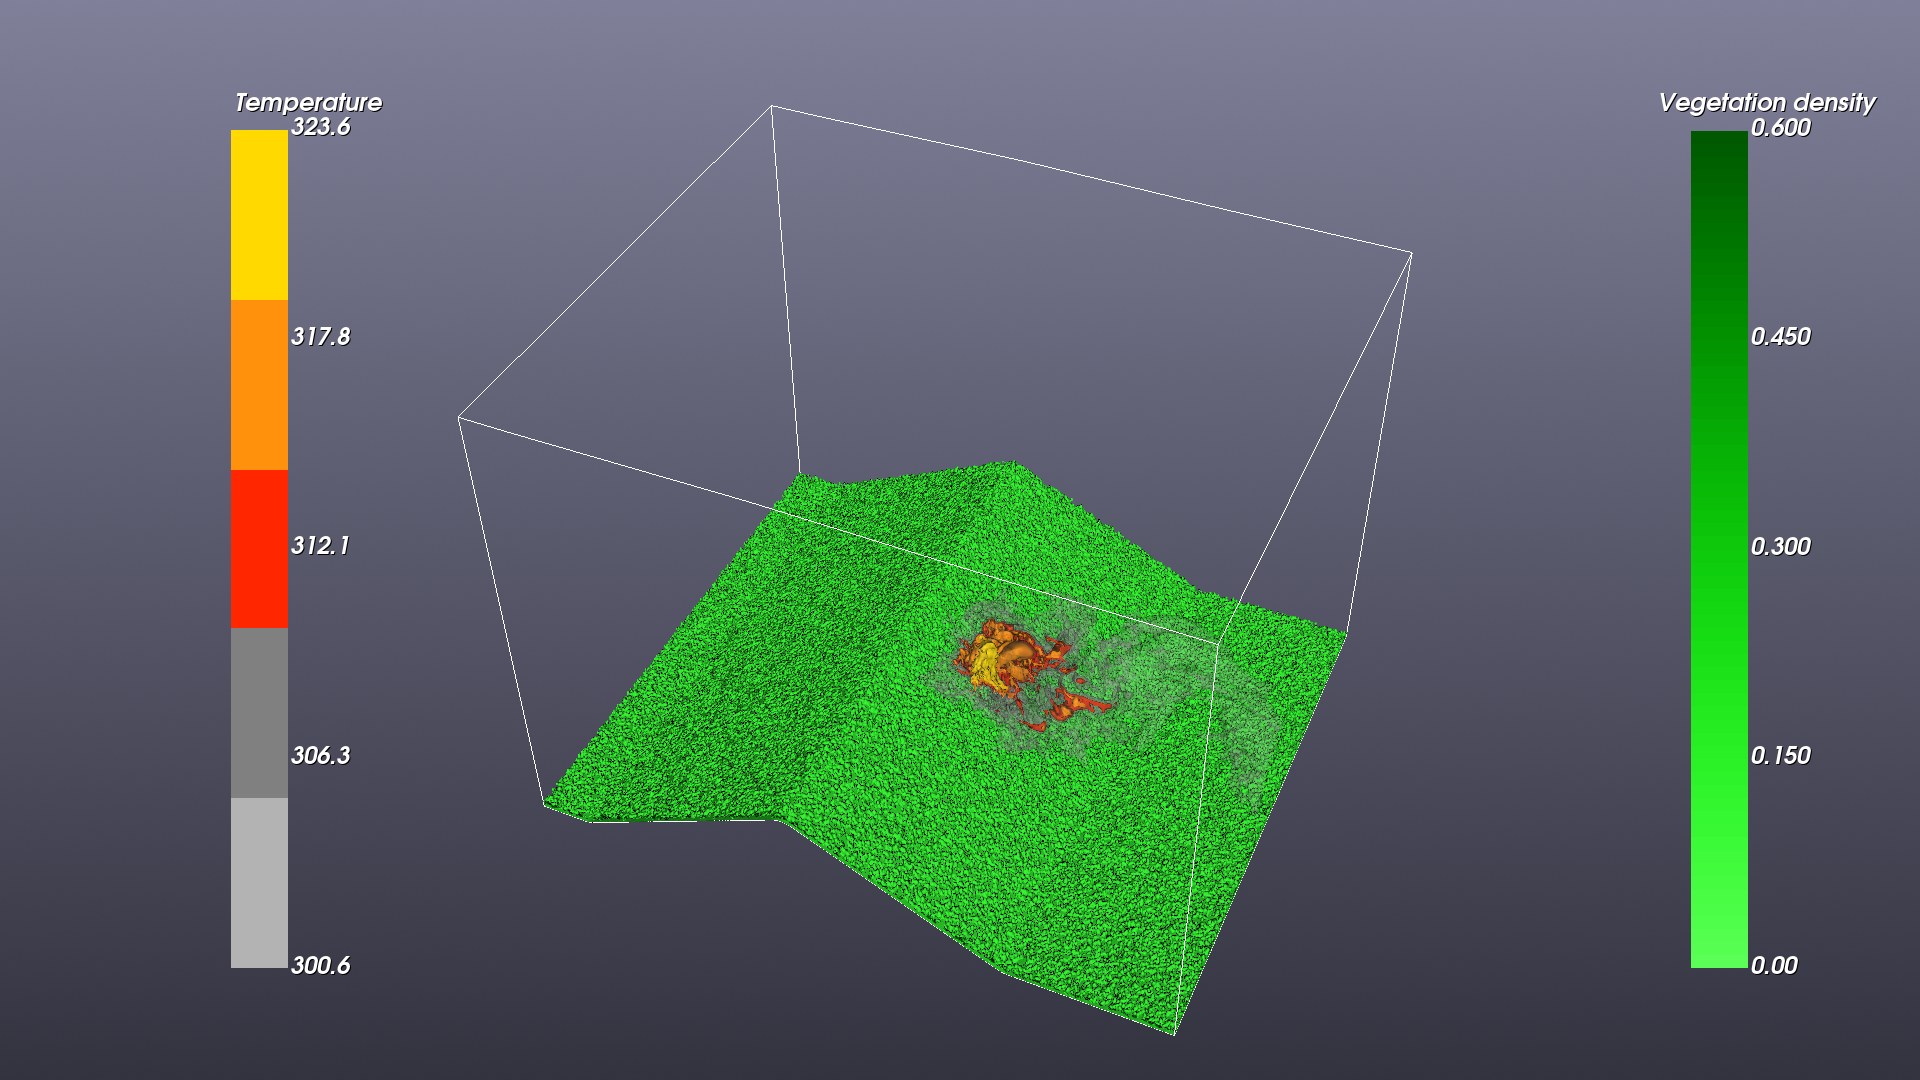
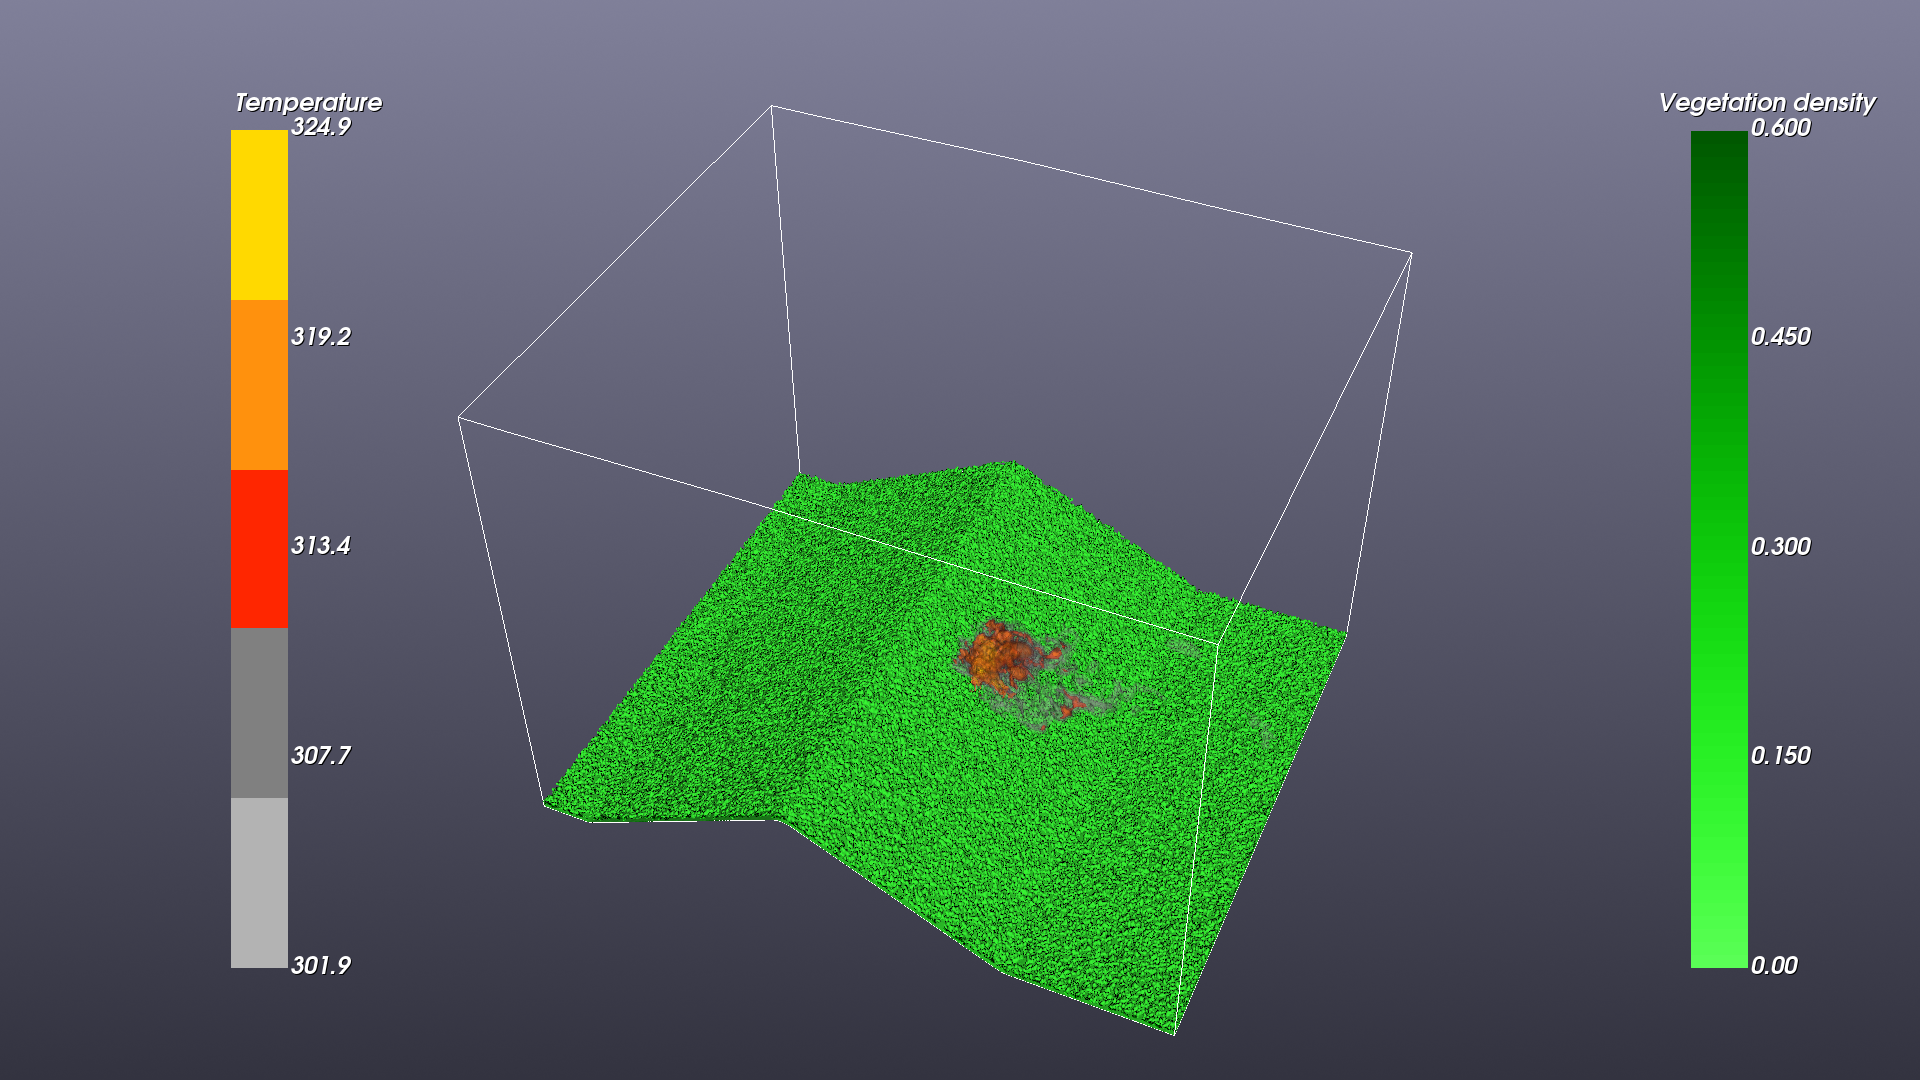
Correctly creates fire in all cases, but it is not as pretty

diff --git a/main.py b/main.py
@@ -11,6 +11,7 @@ File description:
 #!/usr/bin/env vtkpython
 import vtk
 
+from animation import create_frames
 from fire_smoke import (
     make_fire_smoke_actors,
     make_temperature_lut,
@@ -62,19 +63,19 @@ renderer.AddActor(ground_actor)
 # Interactive rendering
 setup_camera(renderer)
 render_window, interactor = make_window_and_interactor(renderer)
-render_window.Render()
-interactor.Initialize()
-interactor.Start()
+# render_window.Render()
+# interactor.Initialize()
+# interactor.Start()
 
 # Animation
-# filters = {
-#     "veg": vegetation_contour,
-#     "smoke_low": fire_contours[0],
-#     "smoke_mid": fire_contours[1],
-#     "fire_hi": fire_contours[2],
-#     "fire_higher": fire_contours[3],
-#     "fire_very_hi": fire_contours[4],
-#     "ground": ground_slice,
-# }
+filters = {
+    "veg": vegetation_contour,
+    "smoke_low": fire_contours[0],
+    "smoke_mid": fire_contours[1],
+    "fire_hi": fire_contours[2],
+    "fire_higher": fire_contours[3],
+    "fire_very_hi": fire_contours[4],
+    "ground": ground_slice,
+}
 
-# create_frames(reader, render_window, renderer, filters)
+create_frames(reader, render_window, filters)

diff --git a/rendering.py b/rendering.py
@@ -14,6 +14,8 @@ def make_renderer(background=(0.1, 0.1, 0.15)):
     """Initiliazes rendering."""
     renderer = vtk.vtkRenderer()
     renderer.SetBackground(*background)
+    renderer.SetMaximumNumberOfPeels(200)
+    renderer.SetOcclusionRatio(0.1)
     return renderer
 
 
@@ -34,9 +36,7 @@ def make_window_and_interactor(renderer, size=(1920, 1080)):
 
     # transparency settings
     render_window.SetAlphaBitPlanes(1)
-    renderer.SetUseDepthPeeling(1)
-    renderer.SetMaximumNumberOfPeels(100)
-    renderer.SetOcclusionRatio(0.1)
+    render_window.SetMultiSamples(0)
 
     # background
     renderer.SetBackground(0.2, 0.2, 0.25)

diff --git a/animation.py b/animation.py
@@ -47,7 +47,7 @@ def create_animation_directory():
     os.makedirs("frames", exist_ok=True)
 
 
-def create_frames(reader, render_window, renderer, filters):
+def create_frames(reader, render_window, filters):
     files = get_all_files()
     w2if, png = setup_frame(render_window)
 
@@ -63,7 +63,6 @@ def create_frames(reader, render_window, renderer, filters):
             f.SetInputData(grid)
             f.Update()
 
-        renderer.ResetCameraClippingRange()
         render_window.Render()
         w2if.Modified()
 

diff --git a/fire_smoke.py b/fire_smoke.py
@@ -35,6 +35,11 @@ def make_iso_actor(grid, theta_name, iso_value, color, opacity):
     actor.GetProperty().SetDiffuse(0.8)
     actor.GetProperty().SetAmbient(0.1)
 
+    # Fix transparency rendering
+    prop = actor.GetProperty()
+    prop.BackfaceCullingOff()  # Prevent hiding fire when viewed from behind
+    prop.FrontfaceCullingOff()  # Same for front faces
+
     return actor, contour
 
 
